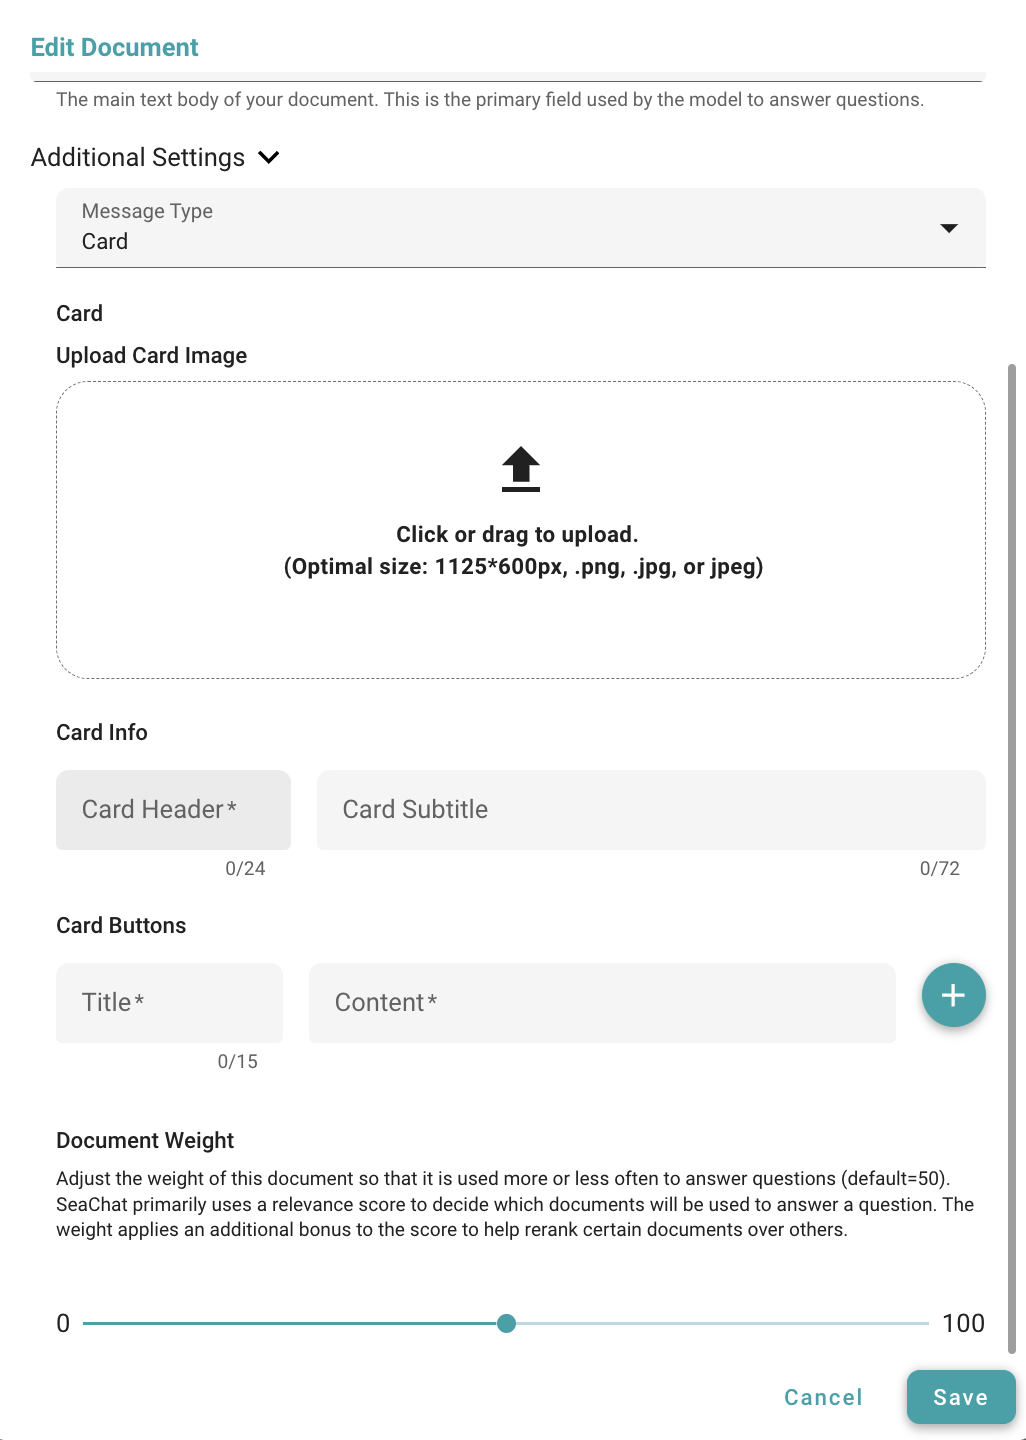
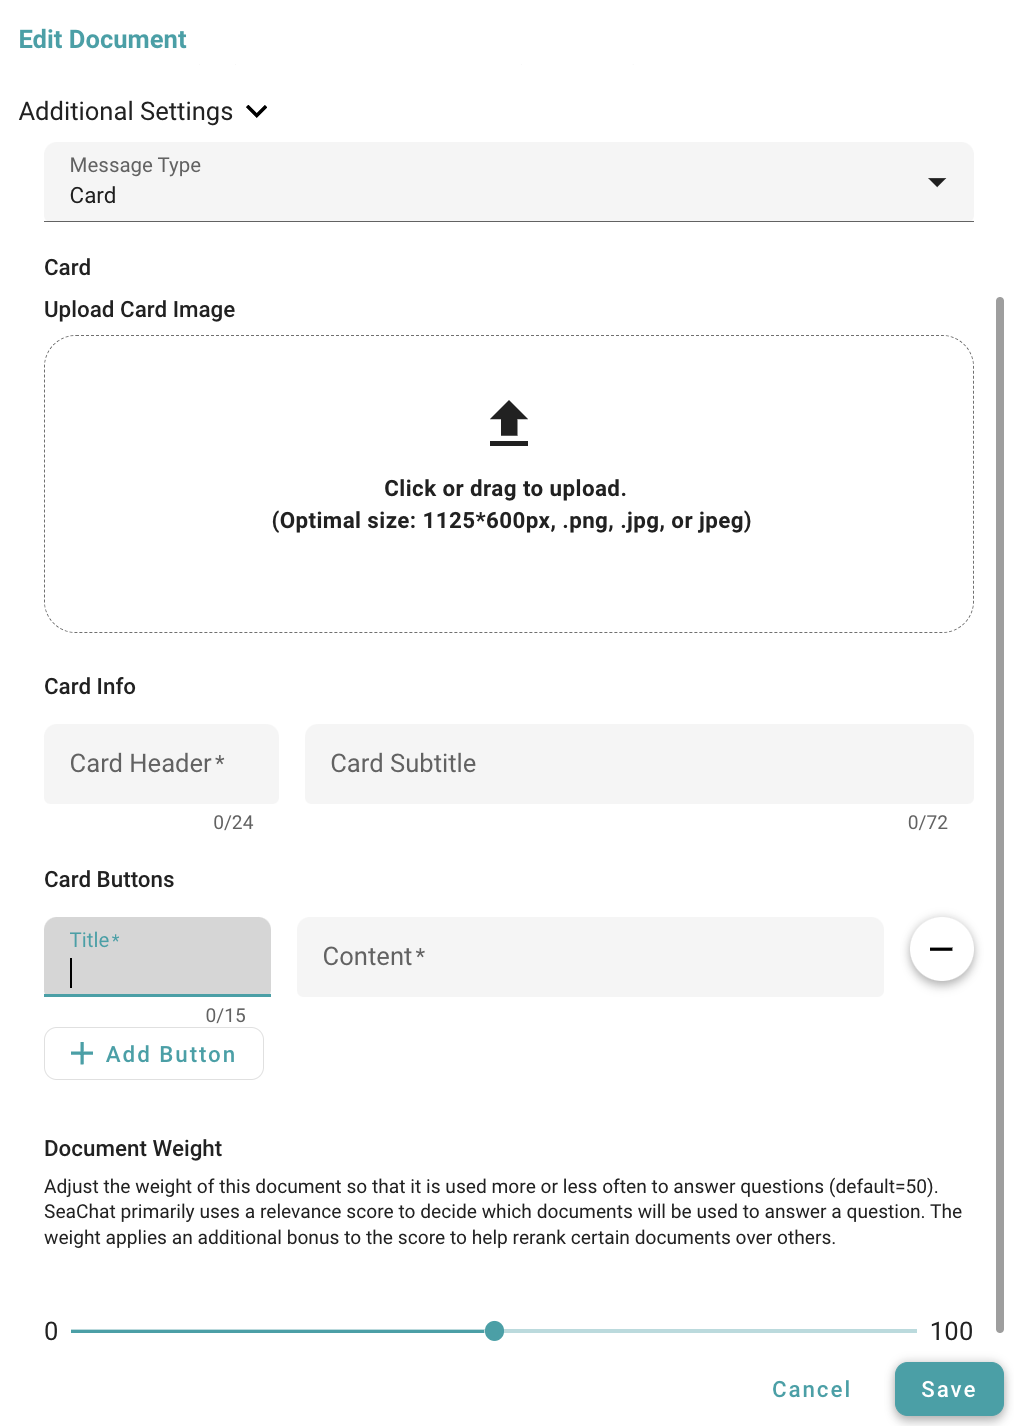
fix/ added zh-wiki and update screenshots

diff --git a/content/zh/seachat/seachat-manual/03-add-knowledge/10-addtional-feature/01-additional-features-in-kb.md b/content/zh/seachat/seachat-manual/03-add-knowledge/10-addtional-feature/01-additional-features-in-kb.md
@@ -1,0 +1,94 @@
+---
+title: "知識庫中的額外功能"
+description: "SeaChat 知識庫中的額外功能"
+lead: ""
+date: 2024-03-04 10:43:51.069 +0100
+lastmod: 2024-06-17 10:43:51.069 +0100
+weight: 200
+draft: false
+images: []
+aliases:
+  - /zh/seachat/seachat-manual/03-add-knowledge/10-additional-feature/01-additional-features-in-kb
+---
+
+## 簡介
+
+除了快速回應之外，SeaChat 提供更進階的功能來增強您的 AI 助理的回應。這些功能包括在回應中新增按鈕、圖片和視頻。本指南將引導您如何將這些功能添加到 AI 助理的回應中，確保您的用戶獲得最全面的支持。以下所有參數適用於您上傳到知識庫的每一條知識。
+
+## 知識庫中的額外功能
+
+首先，導航到知識庫儀表板並選擇要添加額外功能的現有知識。在左側邊欄的 **AI助理配置** 下找到 **知識庫**，然後點擊 **現有知識** 以查看已上傳到您的 AI 助理的所有知識。
+
+打開您希望添加額外功能的知識，然後點擊 **編輯** 按鈕。
+
+<div id="additional-setting-ui" style="display: flex; flex-direction: column; align-items: center;">
+<div style="width: 100%; text-align: center; display: flex; flex-direction: column; align-items: center; justify-item: center">
+    <a href="/images/seachat/zh/knowledge-advanced-features/knowledge-additional-features/kb-dashboard.png" target="_blank">
+    <img width="100%" style="border-radius: 0.4rem; cursor: zoom-in;" src="/images/seachat/zh/knowledge-advanced-features/knowledge-additional-features/kb-dashboard.png" alt="image showcasing how to write an agent description">
+    </a>
+</div>
+    <p style="margin-top: 20px; font-size: 15px">前往 <strong>Existing</strong></p>
+</div>
+
+## 編輯知識中的額外功能
+
+當您的 AI 助理需要回答問題時，它會在知識庫中搜索最相關的信息。AI 助理會查看 **文件標題** 以尋找相關性。SeaChat 利用這種行為，允許您向個別知識添加額外功能，因此每次助理從該特定知識中檢索信息時，都會記住在回應中包含這些額外功能。這允許 SeaChat 用戶向其客戶提供更詳細的信息。
+
+<div id="additional-setting-ui" style="display: flex; flex-direction: column; align-items: center;">
+<div style="width: 100%; text-align: center; display: flex; flex-direction: column; align-items: center; justify-item: center">
+    <a href="/images/seachat/zh/knowledge-advanced-features/knowledge-additional-features/additional-settings.png" target="_blank">
+    <img width="80%" style="border-radius: 0.4rem; cursor: zoom-in;" src="/images/seachat/zh/knowledge-advanced-features/knowledge-additional-features/additional-settings.png" alt="image showcasing how to write an agent description">
+    </a>
+</div>
+    <p style="margin-top: 20px; font-size: 15px">其他設置</p>
+</div>
+
+### 卡片消息
+
+在向客戶提供信息時，提供信息來源或補充閱讀以便他們更好地了解是很有用的。SeaChat 允許您向回應中添加卡片和按鈕，以向用戶提供更全面的回應。
+
+<div id="additional-setting-ui" style="display: flex; flex-direction: column; align-items: center;">
+<div style="width: 100%; text-align: center; display: flex; flex-direction: column; align-items: center; justify-item: center">
+    <a href="/images/seachat/zh/knowledge-advanced-features/knowledge-additional-features/card-info.png" target="_blank">
+    <img width="100%" style="border-radius: 0.4rem; cursor: zoom-in;" src="/images/seachat/zh/knowledge-advanced-features/knowledge-additional-features/card-info.png" alt="image showcasing how to write an agent description">
+    </a>
+</div>
+    <p style="margin-top: 20px; font-size: 15px">知識設置</p>
+</div>
+
+卡片消息提供了您所提供信息的強大視覺效果。您可以為卡片消息添加標題、副標題和圖片。當您想要提供所提供信息的預覽時，此功能特別有用。
+
+<div id="additional-setting-ui" style="display: flex; flex-direction: column; align-items: center;">
+<div style="width: 100%; text-align: center; display: flex; flex-direction: column; align-items: center; justify-item: center">
+    <a href="/images/seachat/zh/knowledge-advanced-features/knowledge-additional-features/card-msg.png" target="_blank">
+    <img width="100%" style="border-radius: 0.4rem; cursor: zoom-in;" src="/images/seachat/zh/knowledge-advanced-features/knowledge-additional-features/card-msg.png" alt="image showcasing how to write an agent description">
+    </a>
+</div>
+    <p style="margin-top: 20px; font-size: 15px">上傳圖片到卡片消息</p>
+</div>
+
+### 按鈕消息
+
+與卡片相比，按鈕更為簡單明了。您可以為按鈕消息添加標題和 URL。此功能特別有用，當您想提供信息來源的鏈接時，您可以向回應中添加任意多個按鈕。與卡片消息相比，此功能為您的用戶提供了更簡單的導航。
+
+<div id="additional-setting-ui" style="display: flex; flex-direction: column; align-items: center;">
+<div style="width: 100%; text-align: center; display: flex; flex-direction: column; align-items: center; justify-item: center">
+    <a href="/images/seachat/zh/knowledge-advanced-features/knowledge-additional-features/btn-msg.png" target="_blank">
+    <img width="100%" style="border-radius: 0.4rem; cursor: zoom-in;" src="/images/seachat/zh/knowledge-advanced-features/knowledge-additional-features/btn-msg.png" alt="image showcasing how to write an agent description">
+    </a>
+</div>
+    <p style="margin-top: 20px; font-size: 15px">知識設置</p>
+</div>
+
+### 文檔權重
+
+文檔權重是一個參數，允許您優先考慮特定的知識。權重越高，當 AI 助理搜索相關信息時，知識越有可能被檢索到。當您有多個與相同問題相關的知識時，這個功能特別有用，您希望優先檢索最重要的知識。
+
+<div id="additional-setting-ui" style="display: flex; flex-direction: column; align-items: center;">
+<div style="width: 100%; text-align: center; display: flex; flex-direction: column; align-items: center; justify-item: center">
+    <a href="/images/seachat/zh/knowledge-advanced-features/knowledge-additional-features/doc-weight.png" target="_blank">
+    <img width="100%" style="border-radius: 0.4rem; cursor: zoom-in;" src="/images/seachat/zh/knowledge-advanced-features/knowledge-additional-features/doc-weight.png" alt="image showcasing how to write an agent description">
+    </a>
+</div>
+    <p style="margin-top: 20px; font-size: 15px">知識設置</p>
+</div>
